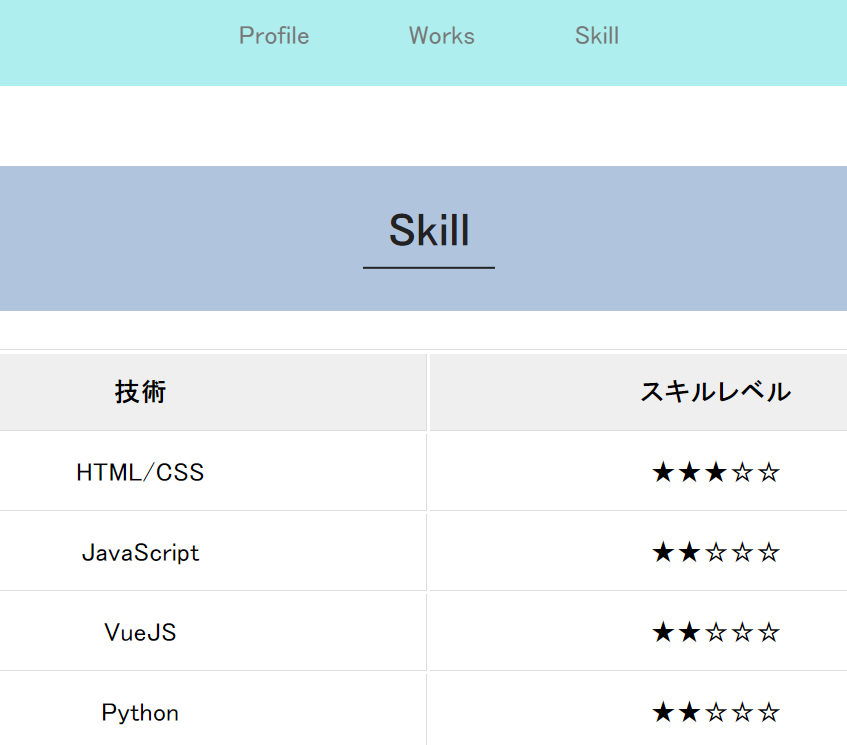
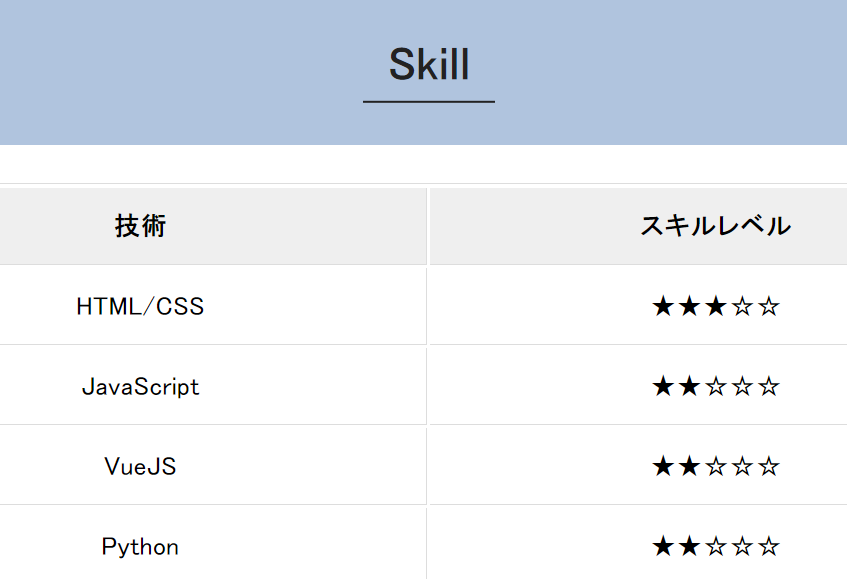
Add files via upload

diff --git a/style.css b/style.css
@@ -49,7 +49,7 @@ header {
 }
 
 section {
-  padding-top: 100px;
+  padding-top: 40px;
 }
 .profile > .level1-heading {
   background-color: lightskyblue;
